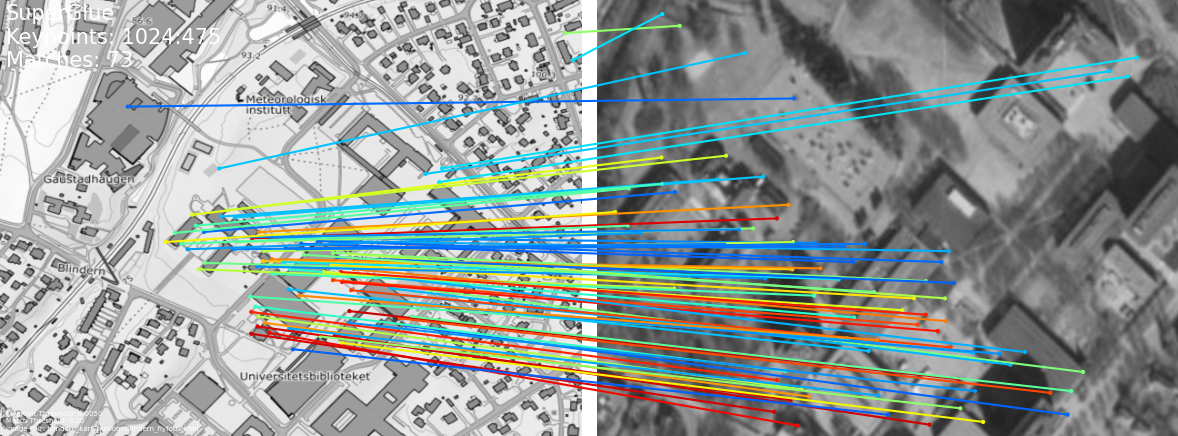
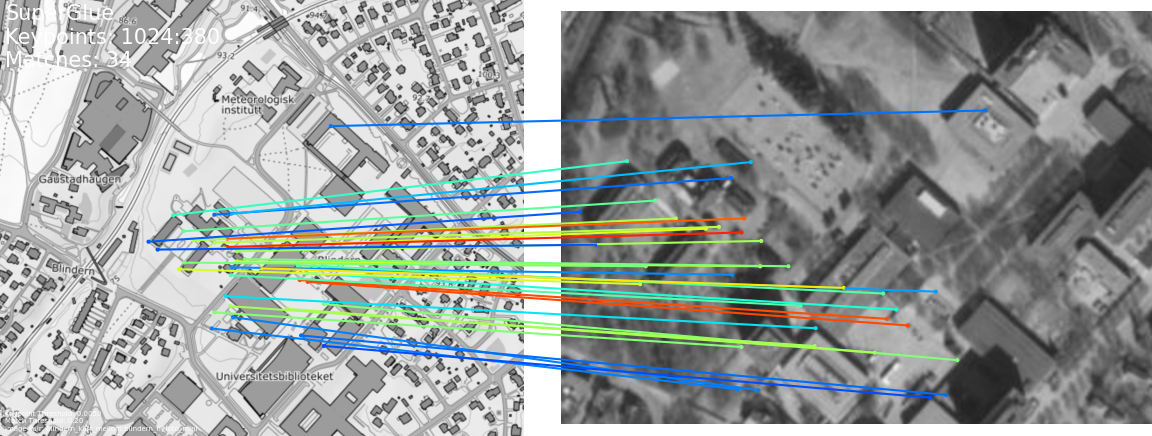
fixed path

diff --git a/SuperGluePretrainedNetwork-master/get_keypoint_matches.py b/SuperGluePretrainedNetwork-master/get_keypoint_matches.py
@@ -1,4 +1,5 @@
 import operator
+import os
 import cv2
 import numpy as np
 from scipy import ndimage
@@ -57,6 +58,7 @@ def crop_image(imagepath, bottom_percent, top_percent):
     return new_image
 
 def rotate_image(image, rot_deg):
+
     return ndimage.rotate(image, rot_deg)
 
 def resize_image(img, scale_percent=80):
@@ -67,18 +69,27 @@ def resize_image(img, scale_percent=80):
     # resize image
     resized = cv2.resize(img, dim, interpolation = cv2.INTER_AREA)
     return resized
-# imagepath = "/Users/joaroldernes/dokumenter/universitet/TEK5030/superglue/SuperGluePretrainedNetwork-master/assets/scannet_sample_images/blindern1.png"
+
+
+os_path = os.getcwd()
+dir_path = os.path.join(os_path,"assets/test_images/")
+image_name = "blindern_flyfoto_mini.png"
+imagepath = os.path.join(dir_path, image_name)
+
+image = cv2.imread(imagepath)
 # percent = 0.7
 # image = crop_image(imagepath, 1- percent, percent)
-# rot_deg = 10
+rot_deg = 10
 # # image = cv2.rotate(image, cv2.cv2.ROTATE_45_CLOCKWISE)
 # kernel = (2,2)
 # blur_image = cv2.blur(image, kernel)
 # name = "scale"
+name = "rotate"
 # # scale_percent = 60
 # # image = resize_image(image, scale_percent=scale_percent)
-# # name = f"resize_{scale_percent}"
-# cv2.imwrite(f"/Users/joaroldernes/dokumenter/universitet/TEK5030/superglue/SuperGluePretrainedNetwork-master/assets/scannet_sample_images/blindern_{name}_07.png", image)
+# # name = f"resize_{scale_percent}"¨
+image = rotate_image(image, rot_deg)
+cv2.imwrite(f"{dir_path}{image_name[:-4]}_{name}_{rot_deg}.png", image)
 path = 'result_images/blindern1_blindern_scale_07_matches.npz'
 
 points = get_keypoints(path)

diff --git a/SuperGluePretrainedNetwork-master/match_images_test.py b/SuperGluePretrainedNetwork-master/match_images_test.py
@@ -47,6 +47,7 @@
 from pathlib import Path
 import argparse
 import random
+import cv2
 import numpy as np
 import matplotlib.cm as cm
 import torch
@@ -432,7 +433,9 @@ class match_image:
             print('{:.2f}\t {:.2f}\t {:.2f}\t {:.2f}\t {:.2f}\t'.format(
                 aucs[0], aucs[1], aucs[2], prec, ms))
 
-# if __name__ == '__main__':
-#     main_img = "/Users/joaroldernes/dokumenter/universitet/TEK5030/superglue/SuperGluePretrainedNetwork-master/assets/scannet_sample_images/blindern1.png"
-#     side_img = f"/Users/joaroldernes/dokumenter/universitet/TEK5030/superglue/SuperGluePretrainedNetwork-master/assets/scannet_sample_images/blindern_rotate_resize_60_07.png"
-#     match_img = match_image(main_img, side_img)
+if __name__ == '__main__':
+    main_imagepath = "/Users/joaroldernes/dokumenter/universitet/TEK5030/project/TEK5030_project/SuperGluePretrainedNetwork-master/assets/test_images/blindern_flyfoto_mini.png"
+    side_imagepath = "/Users/joaroldernes/dokumenter/universitet/TEK5030/project/TEK5030_project/SuperGluePretrainedNetwork-master/assets/test_images/blindern_flyfoto_mini.png"
+    main_image = cv2.imread(main_imagepath)
+    side_image = cv2.imread(side_imagepath)
+    match_img = match_image(main_image, side_image)
